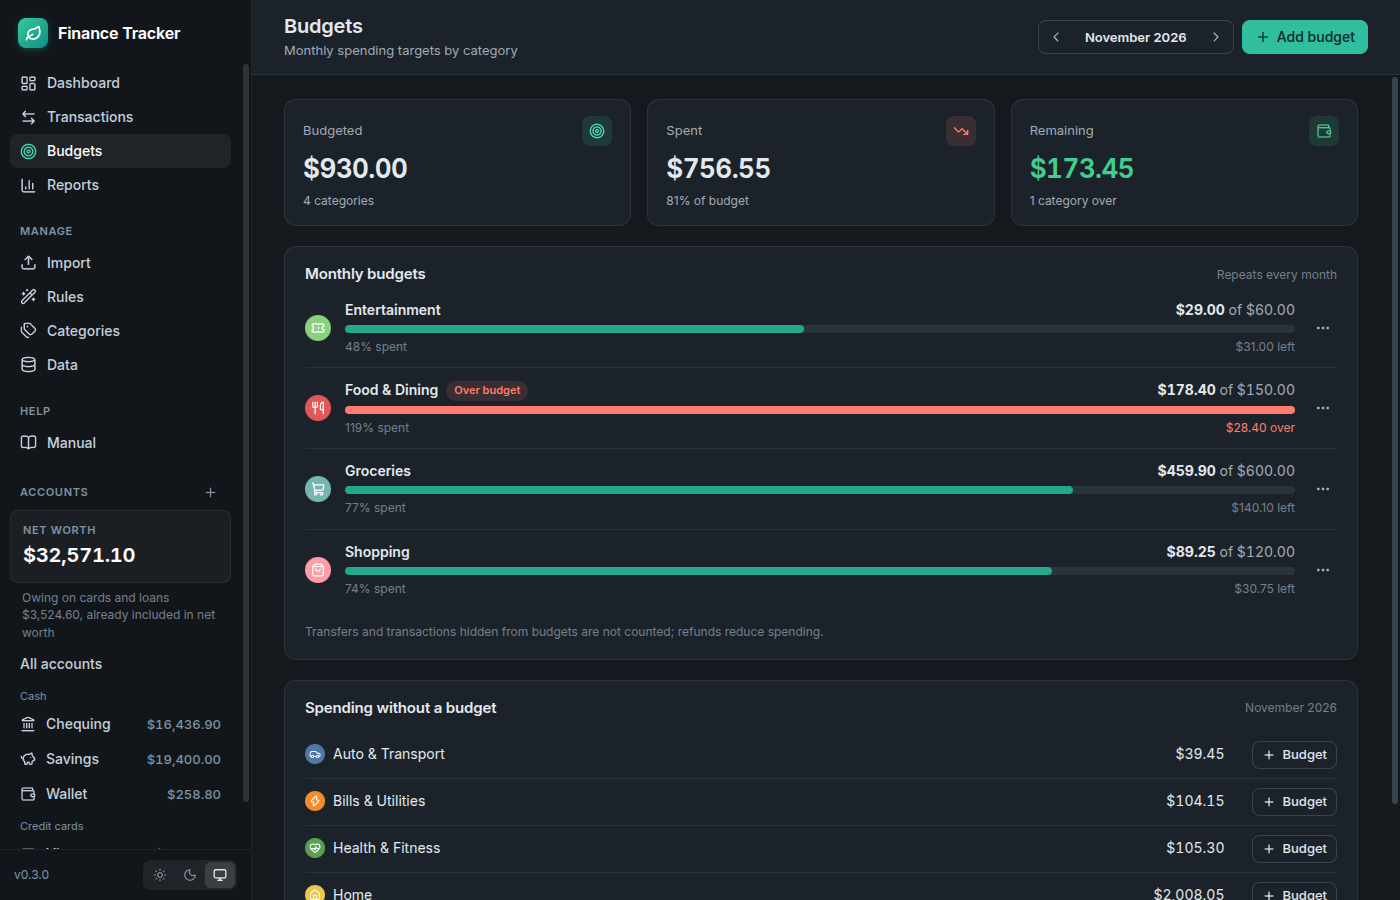
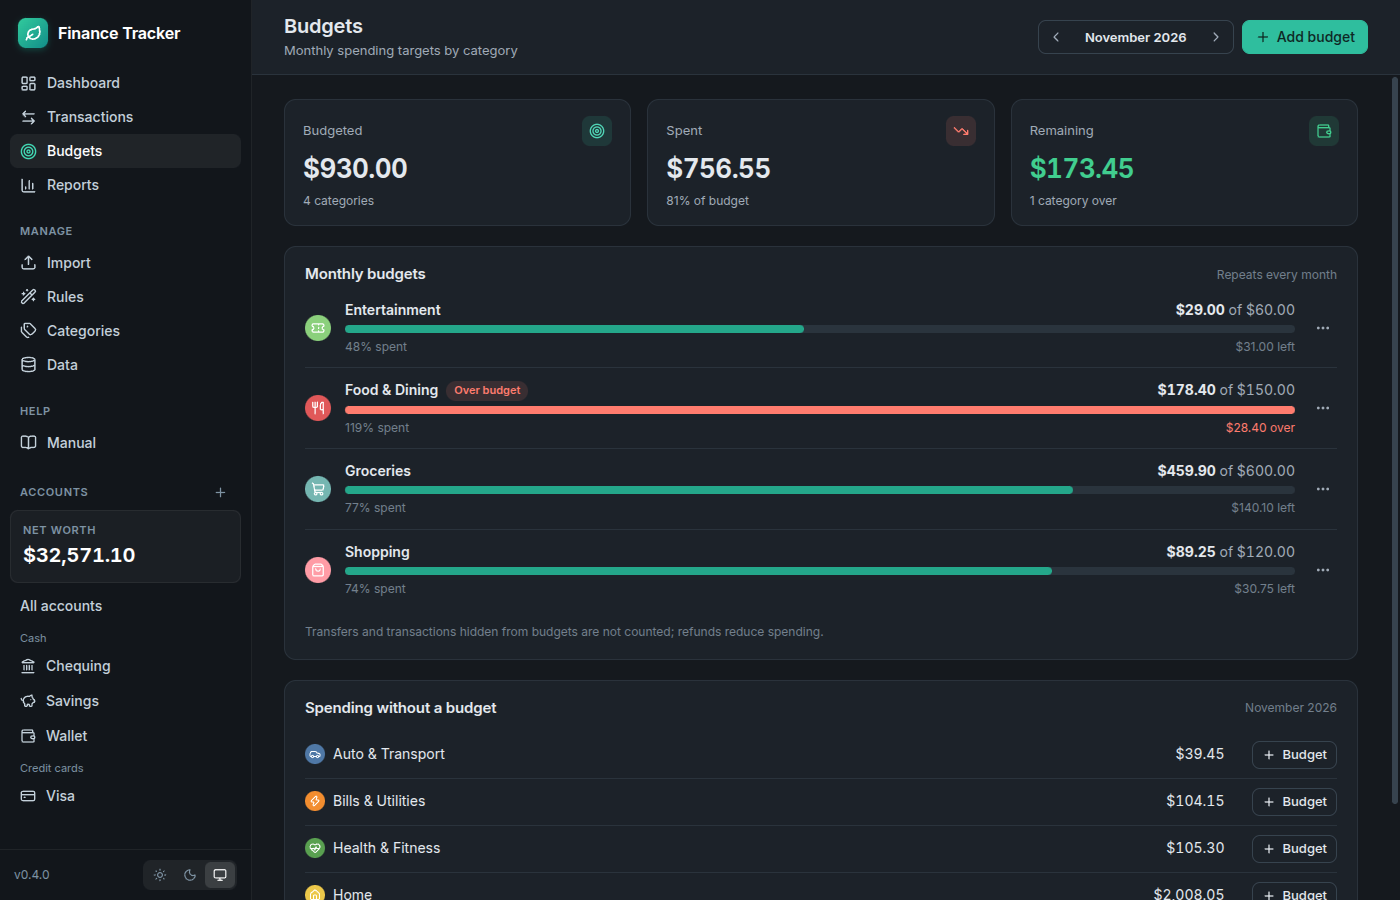
fix: lay out Find duplicates dialog, add duplicates UI script, refresh README screenshots
Claude-Session: https://claude.ai/code/session_015k7HiAdTpjfhzJFgrdU148

Changed region(s): [[0.0, 0.0933, 0.1843, 0.9333]]

diff --git a/src/renderer/src/DuplicatesForm.tsx b/src/renderer/src/DuplicatesForm.tsx
@@ -111,8 +111,8 @@ export function DuplicatesForm({ run }: Pick<LedgerState, 'run'>) {
   }
 
   return (
-    <div className="stack">
-      <div className="row" style={{ gap: 12 }}>
+    <div style={{ display: 'flex', flexDirection: 'column', gap: 16 }}>
+      <div style={{ display: 'flex', gap: 12, flexWrap: 'wrap', alignItems: 'center' }}>
         <label>
           Dates{' '}
           <select value={windowDays} onChange={(e) => setWindowDays(Number(e.target.value))}>
@@ -152,12 +152,14 @@ export function DuplicatesForm({ run }: Pick<LedgerState, 'run'>) {
       {groups?.map((g) => (
         <section
           key={g.transactions.map((t) => t.id).join('-')}
-          className="stack"
+          style={{ display: 'flex', flexDirection: 'column', gap: 8 }}
           data-testid="dup-group"
         >
-          <div className="row" style={{ gap: 12 }}>
-            <strong className="grow">{g.reason}</strong>
-            <span className="muted">Score {g.score}</span>
+          <div style={{ display: 'flex', gap: 12, flexWrap: 'wrap', alignItems: 'center' }}>
+            <strong style={{ flex: '1 1 100%' }}>{g.reason}</strong>
+            <span className="muted" style={{ flex: 1 }}>
+              Score {g.score}
+            </span>
             <button type="button" className="danger" onClick={() => void keepOne([g])}>
               Keep first, delete rest
             </button>
@@ -172,10 +174,19 @@ export function DuplicatesForm({ run }: Pick<LedgerState, 'run'>) {
               Not a duplicate
             </button>
           </div>
-          <ul className="stack" style={{ listStyle: 'none', padding: 0 }}>
+          <ul
+            style={{
+              listStyle: 'none',
+              padding: 0,
+              margin: 0,
+              display: 'flex',
+              flexDirection: 'column',
+              gap: 6,
+            }}
+          >
             {g.transactions.map((t) => (
-              <li key={t.id} className="row" style={{ gap: 12 }}>
-                <span className="grow">
+              <li key={t.id} style={{ display: 'flex', gap: 12, alignItems: 'center' }}>
+                <span style={{ flex: 1 }}>
                   {t.date} {t.accountName}: {t.description || 'no description'}{' '}
                   {formatCents(t.amount)}
                   {t.split ? ' (split)' : ''}

diff --git a/src/renderer/src/App.tsx b/src/renderer/src/App.tsx
@@ -481,7 +481,7 @@ function Shell() {
             open={dialog === 'duplicates'}
             onOpenChange={(o) => setDialog(o ? 'duplicates' : null)}
             title="Find duplicates"
-            description="Transactions in the same account with the same amount, close dates and similar text. Nothing is deleted unless you choose Delete."
+            description="Transactions with the same amount, close dates and similar text. Nothing is deleted unless you choose Delete."
             wide
           >
             {dialog === 'duplicates' && <DuplicatesForm run={ledger.run} />}

diff --git a/.claude/skills/run-finance-tracker/SKILL.md b/.claude/skills/run-finance-tracker/SKILL.md
@@ -23,7 +23,7 @@ xvfb-run -a -s "-screen 0 1440x900x24" node .claude/skills/run-finance-tracker/t
 ```
 
 `tour.mjs` covers search, rules and CSV import; `import-formats.mjs` covers OFX, QFX (fitid duplicates) and Mint import from `test-data/import/`; `reports.mjs` covers the dashboard,
-reports and the drill-down; `categories.mjs` covers the Categories tab (add, merge, rename, delete with reassign); `accounts-dashboard.mjs` covers account edit, archive and delete and the dashboard Customize panel; `budgets.mjs` covers the Budgets tab (add and edit dialogs, month stepper, remove); `rules.mjs` covers the Rules tab (editor dialog, reorder, turn off, preview and apply, delete); `data.mjs` covers the Data tab (backups, export, CSV, staged restore); `transactions.mjs` covers the Transactions dialogs, filters, bulk bar, row menu, split and the in-app confirms; `screens.mjs [outDir]` screenshots every screen in light and dark for look-and-feel review. The app opens on the Dashboard tab.
+reports and the drill-down; `categories.mjs` covers the Categories tab (add, merge, rename, delete with reassign); `accounts-dashboard.mjs` covers account edit, archive and delete and the dashboard Customize panel; `budgets.mjs` covers the Budgets tab (add and edit dialogs, month stepper, remove); `rules.mjs` covers the Rules tab (editor dialog, reorder, turn off, preview and apply, delete); `data.mjs` covers the Data tab (backups, export, CSV, staged restore); `duplicates.mjs` covers Find duplicates (keep one, cross-account), the names-only sidebar and the all-accounts Transactions tab; `transactions.mjs` covers the Transactions dialogs, filters, bulk bar, row menu, split and the in-app confirms; `screens.mjs [outDir]` screenshots every screen in light and dark for look-and-feel review. The app opens on the Dashboard tab.
 
 `lib.mjs` exports `launch()` returning `{ app, page, errors, shot, stubOpenDialog }`.
 Write new flows as small scripts that import it. Then read the PNGs.

diff --git a/docs/handoffs/2026-11-14_duplicates-and-all-accounts.md b/docs/handoffs/2026-11-14_duplicates-and-all-accounts.md
@@ -19,13 +19,15 @@ Second round of owner feedback after v0.4.0, in one PR. No version cut; more cha
 `npm run check` passes. Migrations are still at 14. Version is still 0.4.0 (Unreleased section in
 the changelog holds these changes).
 
-## Not verified in the real UI
+## Verified in the real UI (headless)
 
-- The new buttons, confirm dialog and Undo in Find duplicates, and the sidebar and tab changes,
-  were not clicked through. README screenshots were not regenerated (the sidebar changed).
+- New `duplicates.mjs` skill script: seeds duplicates, checks the names-only sidebar, the
+  all-accounts Transactions tab, cross-account on and off, Keep one of each, and Undo. No page errors.
+- The Find duplicates dialog had no layout (`.row`, `.stack` and `.grow` have no CSS); fixed with
+  inline flex styles. Its description no longer says "same account".
+- README screenshots regenerated (sidebar changed; demo data makes some figures differ).
 
 ## Next actions
 
-1. Regenerate README screenshots (`readme-shots.mjs`) since the sidebar looks different.
-2. Owner confirms "across accounts" is what they meant by the duplicate search comment.
-3. Remaining items from the v0.4.0 handoff (real-UI checks, budget rollover decision).
+1. Owner confirms "across accounts" is what they meant by the duplicate search comment.
+2. Remaining items from the v0.4.0 handoff (real-UI checks, budget rollover decision).
